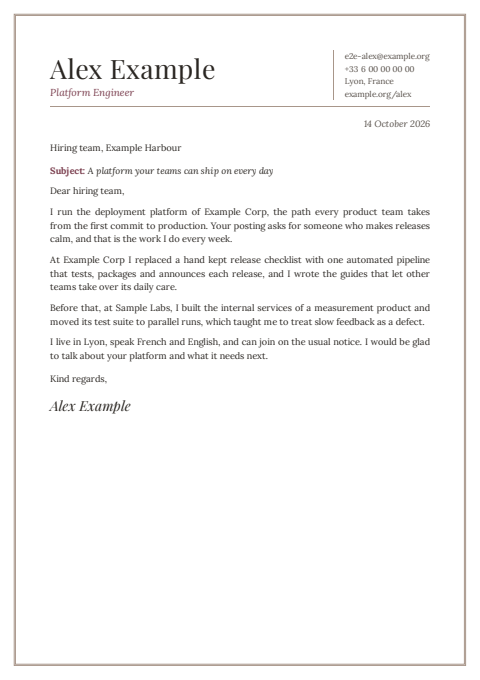
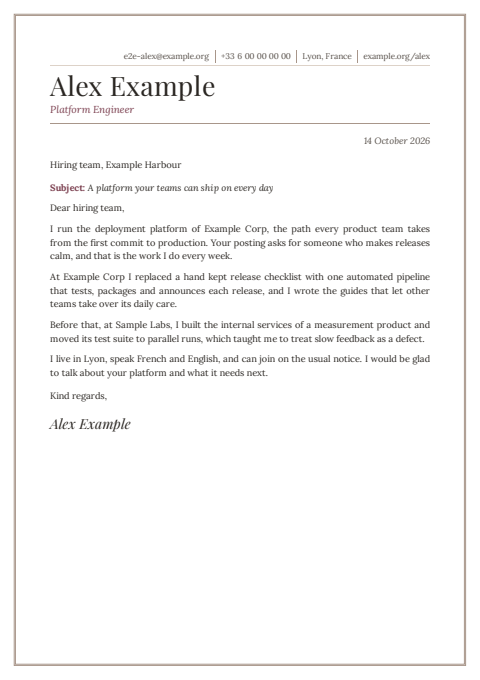
Wrap the headings of templates 13 to 16 between contact lines only
A contact line breaks only when it alone is wider than its line, never
because a header could not wrap: overflow-wrap break-word with a cap at
the line's width, bold's separators drawn as borders of the lines, and
elegant's contact lines moved over the name as a letterhead (its narrow
right column broke a long address). Tested with D1's contact lines and
with long ones, the headline at its soft limit, CV and letter, English
and French. The text order test also runs on the CV filled to the soft
limits, and the dash test reads CSS content in single quotes too.

Changed region(s): [[0.0938, 0.2162, 0.9062, 0.6485], [0.0938, 0.0618, 0.4688, 0.1853], [0.4688, 0.0618, 0.9062, 0.2162]]

diff --git a/api/app/documents/templates/elegant/style.css b/api/app/documents/templates/elegant/style.css
@@ -1,10 +1,10 @@
-/* elegant: one column in Lora, the name and the headings in Playfair Display, a mauve accent.
-   A thin double frame 6 mm inside the paper's edge on every page (a fixed box, which the
-   renderer repeats on each page); the page margin is 0 and --margin becomes the padding of the
-   text inside the frame. Thin rules everywhere else: under the heading, after each section
-   title, around the achievements, under each competency and skill row, between the roles. The
-   density comes from the step on :root: --body-size, --line-height, --section-gap, --item-gap,
-   --margin. */
+/* elegant: one column in Lora, the name and the headings in Playfair Display, a mauve accent. A
+   thin double frame 6 mm inside the paper's edge on every page (a fixed box, which the renderer
+   repeats on each page); the page margin is 0 and --margin becomes the padding of the text inside
+   the frame. The contact lines over the name as a letterhead, split by hairlines. Thin rules
+   everywhere else: under the heading, after each section title, around the achievements, under
+   each competency and skill row, between the roles. The density comes from the step on :root:
+   --body-size, --line-height, --section-gap, --item-gap, --margin. */
 @page { size: A4; margin: 0; }
 * { box-sizing: border-box; }
 html {
@@ -29,12 +29,13 @@ li, p, h1, h3 { overflow-wrap: anywhere; }
 
 .head {
   display: grid;
-  grid-template-columns: minmax(0, 1fr) auto;
-  column-gap: 7mm;
-  align-items: end;
+  grid-template-columns: minmax(0, 1fr);
   padding-bottom: 7pt;
   border-bottom: 0.5pt solid #a8968a;
 }
+/* The contact lines stand over the name as a letterhead; a grid row moves them without
+   changing the order the page is painted, and so extracted, in: the name stays first. */
+.headtext { grid-row: 2; }
 .name {
   font-family: "Playfair Display", serif;
   font-size: 2.9em;
@@ -49,13 +50,25 @@ li, p, h1, h3 { overflow-wrap: anywhere; }
   margin-top: 3pt;
 }
 .contact {
+  grid-row: 1;
   list-style: none;
-  max-width: 68mm;
-  border-left: 0.5pt solid #a8968a;
-  padding-left: 5mm;
+  display: flex;
+  flex-wrap: wrap;
+  justify-content: flex-end;
+  row-gap: 1pt;
+  padding-bottom: 3pt;
+  margin-bottom: 7pt;
+  border-bottom: 0.5pt solid #ddd2c8;
   font-size: 0.9em;
   color: #57504a;
 }
+.contact li + li {
+  border-left: 0.5pt solid #a8968a;
+  margin-left: 7pt;
+  padding-left: 7pt;
+}
+/* a line wraps between contact lines, never inside an address unless it alone is wider */
+.contact li { overflow-wrap: break-word; max-width: 100%; }
 
 .block { margin-top: var(--section-gap); }
 .label {

diff --git a/api/app/documents/templates/bold/style.css b/api/app/documents/templates/bold/style.css
@@ -1,9 +1,10 @@
 /* bold: one column in Work Sans, black and a strong red accent. A very large name, set smaller
    past 30 and 60 characters, that wraps anywhere rather than leave the page, a thick black
    rule under the heading, heavy headings in white capitals on black bars, thick red bars over
-   the achievements, black bars beside the competencies. Markers and separators are borders of
-   empty boxes, so the PDF text holds none. The density comes from the step on :root:
-   --body-size, --line-height, --section-gap, --item-gap, --margin. */
+   the achievements, black bars beside the competencies. Markers are borders of empty boxes
+   and the contact lines are split by red bars, borders too, so the PDF text holds none. The
+   density comes from the step on :root: --body-size, --line-height, --section-gap,
+   --item-gap, --margin. */
 @page { size: A4; }
 * { box-sizing: border-box; }
 html {
@@ -50,13 +51,13 @@ li, p, h1, h3 { overflow-wrap: anywhere; }
   font-weight: 600;
   color: #3d3f47;
 }
-.contact li + li::before {
-  content: "";
-  display: inline-block;
-  vertical-align: middle;
-  border: 2pt solid var(--accent);
-  margin: 0 7pt 1pt;
+.contact li + li {
+  border-left: 3pt solid var(--accent);
+  margin-left: 7pt;
+  padding-left: 7pt;
 }
+/* a line wraps between contact lines, never inside an address unless it alone is wider */
+.contact li { overflow-wrap: break-word; max-width: 100%; }
 .photo {
   display: block;
   width: 30mm;

diff --git a/api/app/documents/templates/academic/style.css b/api/app/documents/templates/academic/style.css
@@ -36,7 +36,7 @@ li, p, h1, h3 { overflow-wrap: anywhere; }
   row-gap: 1pt;
   margin-top: 3pt;
 }
-.contact li { padding-right: 8pt; }
+.contact li { padding-right: 8pt; overflow-wrap: break-word; max-width: 100%; }
 .contact li + li { border-left: 0.6pt solid #111111; padding-left: 8pt; }
 
 .block { margin-top: var(--section-gap); }

diff --git a/api/app/documents/templates/cards/style.css b/api/app/documents/templates/cards/style.css
@@ -61,6 +61,8 @@ li, p, h1, h3 { overflow-wrap: anywhere; }
   margin-top: 4pt;
   color: #3c4a5a;
 }
+/* a line wraps between contact lines, never inside an address unless it alone is wider */
+.contact li { overflow-wrap: break-word; max-width: 100%; }
 
 .columns {
   display: grid;

diff --git a/api/tests/documents/test_templates_d21.py b/api/tests/documents/test_templates_d21.py
@@ -30,6 +30,7 @@ from tests.documents.test_templates import (
     ON,
     SLUGS,
     assert_authoring,
+    at_soft_limits,
     d1,
     d1_view,
     fitted,
@@ -265,13 +266,22 @@ def test_the_contrast_pairs_read_a_rule_with_its_own_background_alone() -> None:
     assert ("#1c5d99", "#dce8f4") in painted_pairs("cards")
 
 
+# The text of a CSS `content`, in double or in single quotes.
+CONTENT = re.compile(r"""content:\s*(?:"([^"]*)"|'([^']*)')""")
+
+
+def test_the_dash_test_reads_content_in_both_quotes() -> None:
+    css = """a::before { content: "x \u2014 y"; } b::after { content: ' - '; }"""
+    assert [a or b for a, b in CONTENT.findall(css)] == ["x \u2014 y", " - "]
+
+
 @pytest.mark.parametrize("slug", D21)
 def test_no_dash_is_printed_as_a_separator(slug: str) -> None:
     """The text a template prints of its own: its manifest's names and descriptions, the text of
     its CSS `content`, and the page it builds from the sample in both languages."""
     found = template(slug)
     own = [*found.name.values(), *found.description.values()]
-    own += re.findall(r"content:\s*\"([^\"]*)\"", found.files["style.css"])
+    own += [a or b for a, b in CONTENT.findall(found.files["style.css"])]
     for kind in templates.KINDS:
         for language in templates.LANGUAGES:
             sample = thumbnails.sample()[kind]
@@ -483,13 +493,20 @@ def test_academic_with_three_schools_fits_with_the_education_above_the_experienc
     assert bottom(degrees[-1]) > top(experience)
 
 
+def typical(slug: str, full: bool) -> c.CvContent:
+    """D1's typical CV, with every field filled to the template's soft limits when `full`."""
+    content = d1("cv-typical")[2]
+    return at_soft_limits(content, template(slug).kinds["cv"].soft_limits) if full else content
+
+
 @docker
 @pytest.mark.parametrize("language", templates.LANGUAGES)
-def test_academic_reads_in_the_order_of_the_page(renderer: Any, language: str) -> None:
+@pytest.mark.parametrize("full", [False, True], ids=["typical", "soft-limits"])
+def test_academic_reads_in_the_order_of_the_page(renderer: Any, language: str, full: bool) -> None:
     """The PDF text, as an applicant tracking system extracts it: the name first, the sections in
     the order of the page (the education before the experience), the roles in order, every
-    bullet whole."""
-    _, _, content = d1("cv-typical")
+    bullet whole; on the typical CV and on the typical CV filled to the soft limits."""
+    content = typical("academic", full)
     result = fitted(renderer, template("academic"), "cv", content, d1_view(), language)
     assert result.fit
     text = " ".join(pdf_text(result.pdf).replace("\ufffe", "-").split())
@@ -523,14 +540,17 @@ class Texts(HTMLParser):
 
 @docker
 @pytest.mark.parametrize("slug", D21)
-@pytest.mark.parametrize("name", ["cv-typical", "letter-en"])
+@pytest.mark.parametrize("name", ["cv-typical", "cv-soft-limits", "letter-en"])
 def test_the_pdf_text_follows_the_order_of_the_document(
     renderer: Any, slug: str, name: str
 ) -> None:
     """Every text of the built page is found in the PDF text in the order of the document: no
     part of the layout is painted, and so extracted, out of its place (a positioned marker once
     sent the competencies of `cards` and the bullets of `bold` to the end of the page)."""
-    kind, language, content = d1(name)
+    if name == "cv-soft-limits":
+        kind, language, content = "cv", "en", typical(slug, full=True)
+    else:
+        kind, language, content = d1(name)
     found = template(slug)
     result = fitted(renderer, found, kind, content, d1_view(), language)
     assert result.fit
@@ -543,6 +563,75 @@ def test_the_pdf_text_follows_the_order_of_the_document(
         place = text.find(chunk, at)
         assert place >= 0, (chunk, text[at : at + 80])
         at = place + len(chunk)
+
+
+LONG_CONTACT = Identity(
+    full_name="Alex Example",
+    email="e2e-alexandra.example-sampleton@example.org",
+    phone="+33 6 00 00 00 00",
+    city="Saint-Rémy-de-Provence",
+    country="France",
+    website="https://example.org/people/alexandra-example-sampleton/portfolio",
+    links=(("Code", "https://code.example.org/alexandra-example-sampleton"),),
+)
+
+
+def baselines(pdf: bytes, needle: str) -> list[float]:
+    """The baseline of each character of the first `needle` of page 1 (white space and case
+    ignored; a hyphen that ends a line read as one): one value when it stands on one line."""
+    document = pdfium.PdfDocument(pdf)
+    try:
+        textpage = document[0].get_textpage()
+        text = textpage.get_text_range().replace("\ufffe", "-")
+        chars = [i for i, ch in enumerate(text) if not ch.isspace()]
+        compact = "".join(text[i] for i in chars).casefold()
+        target = "".join(needle.split()).casefold()
+        start = compact.find(target)
+        assert start >= 0, needle
+        found = []
+        for index in chars[start : start + len(target)]:
+            x, y = ctypes.c_double(), ctypes.c_double()
+            pdfium_c.FPDFText_GetCharOrigin(textpage.raw, index, x, y)
+            found.append(y.value)
+        return found
+    finally:
+        document.close()
+
+
+@docker
+@pytest.mark.parametrize("slug", D21)
+@pytest.mark.parametrize("kind", templates.KINDS)
+@pytest.mark.parametrize("language", templates.LANGUAGES)
+@pytest.mark.parametrize("who", ["alex", "long"])
+def test_the_heading_wraps_between_contact_lines_never_inside_one(
+    renderer: Any, slug: str, kind: str, language: str, who: str
+) -> None:
+    """The review of D20: a header that could not wrap split the name and broke an e-mail
+    address in two. Here the headline is at its soft limit (the CV filled to every soft limit),
+    with D1's contact lines and with long ones (a 43 character address, a 64 character link):
+    the document fits, the name stands on one line, and so does each contact line."""
+    found = template(slug)
+    view = d1_view()
+    if who == "long":
+        view = ProfileView(
+            revision=view.revision,
+            identity=LONG_CONTACT,
+            employers=view.employers,
+            schools=view.schools,
+            languages=view.languages,
+        )
+    if kind == "cv":
+        content: Any = typical(slug, full=True)
+    else:
+        letter = d1("letter-en")[2]
+        limit = found.kinds["letter"].soft_limits.headline or 90
+        headline = (letter.headline + ", ") * 10
+        content = letter.model_copy(update={"headline": headline[:limit].rstrip(", ")})
+    result = fitted(renderer, found, kind, content, view, language)
+    assert result.fit, result.pages
+    for needle in ["Alex Example", *(line["text"] for line in templates.contact_lines(view))]:
+        ys = baselines(result.pdf, str(needle))
+        assert max(ys) - min(ys) < 1.0, (needle, sorted({round(y) for y in ys}))
 
 
 def frames(pdf: bytes) -> list[list[float]]:
